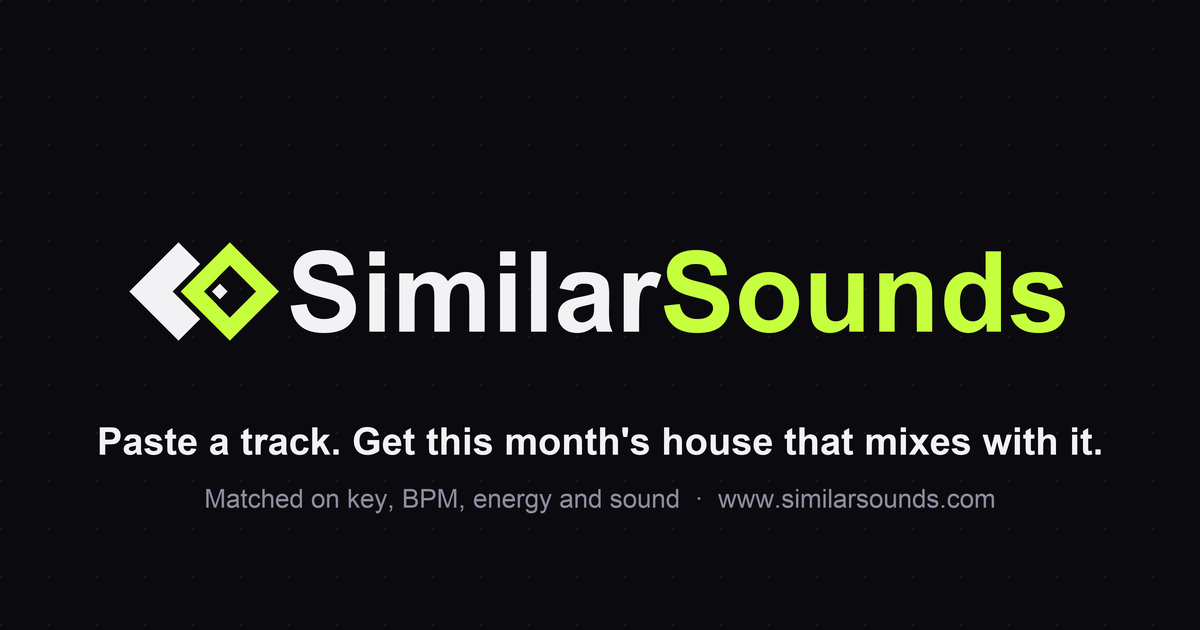
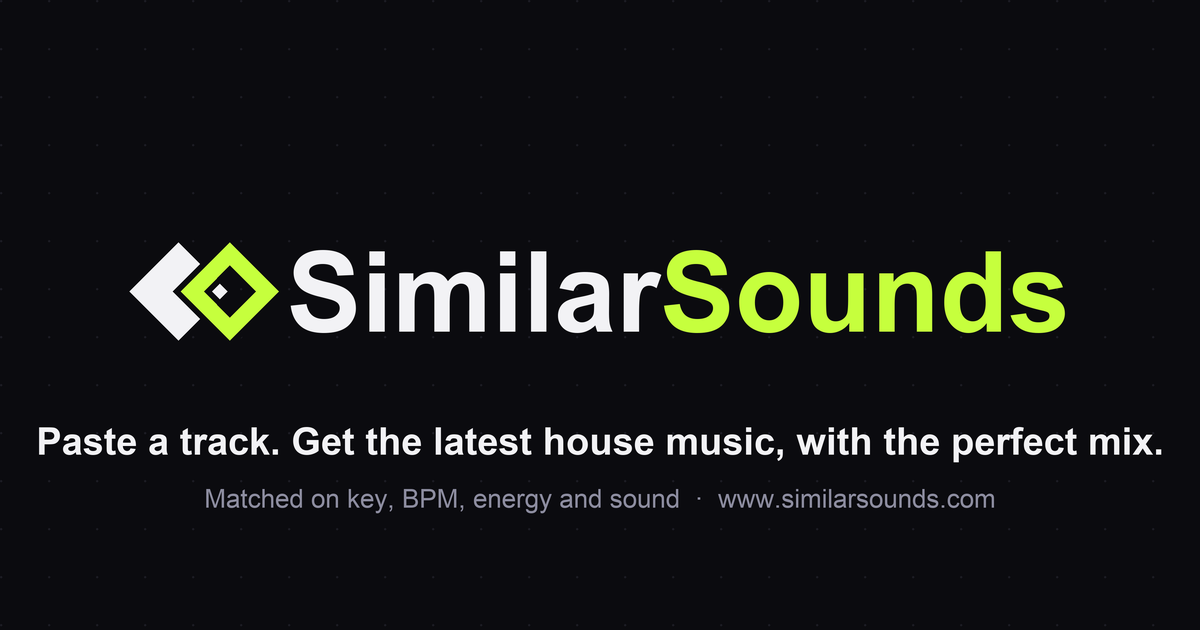
New headline: Get the latest house music, with the perfect mix.

Changed region(s): [[0.0308, 0.6635, 0.9867, 0.7238]]

diff --git a/static/i18n.js b/static/i18n.js
@@ -38,7 +38,7 @@
     "Build your set": ["Arma tu set", "Construisez votre set", "Stell dein Set zusammen", "Crea il tuo set", "Monte seu set", "Bouw je set"],
     "Line tracks up and see which ones mix smoothly.": ["Ordena los temas y mira cuáles mezclan bien.", "Alignez les titres et voyez lesquels s'enchaînent bien.", "Ordne Tracks an und sieh, welche gut ineinander übergehen.", "Metti in fila i brani e scopri quali si mixano bene.", "Organize as faixas e veja quais mixam bem.", "Zet tracks op volgorde en zie welke soepel mixen."],
     "Paste a track.": ["Pega un tema.", "Collez un titre.", "Füge einen Track ein.", "Incolla un brano.", "Cole uma faixa.", "Plak een track."],
-    "this month's": ["de este mes", "de ce mois-ci", "von diesem Monat", "di questo mese", "deste mês", "van deze maand"],
+    "the latest": ["lo último", "la toute dernière", "die neueste", "l'ultima", "o mais novo", "de nieuwste"],
     "Start typing an artist… or paste a YouTube, SoundCloud, Beatport link": ["Escribe un artista… o pega un enlace de YouTube, SoundCloud o Beatport", "Tapez un artiste… ou collez un lien YouTube, SoundCloud, Beatport", "Artist eingeben… oder YouTube-, SoundCloud-, Beatport-Link einfügen", "Scrivi un artista… o incolla un link YouTube, SoundCloud, Beatport", "Digite um artista… ou cole um link do YouTube, SoundCloud, Beatport", "Typ een artiest… of plak een YouTube-, SoundCloud-, Beatport-link"],
     "Clear search and start again": ["Borrar la búsqueda y empezar de nuevo", "Effacer la recherche et recommencer", "Suche löschen und neu starten", "Cancella la ricerca e ricomincia", "Limpar a busca e recomeçar", "Zoekopdracht wissen en opnieuw beginnen"],
     "Press / to search": ["Pulsa / para buscar", "Appuyez sur / pour rechercher", "Drücke / zum Suchen", "Premi / per cercare", "Pressione / para buscar", "Druk op / om te zoeken"],
@@ -187,7 +187,7 @@
 
   // ---------- HTML fragments with inner elements kept in place ({1}, {2}… = the original child elements)
   const H = {
-    hero2: ["Recibe house {1} que mezcla con él.", "Découvrez la house {1} qui s'enchaîne avec.", "Hol dir House {1}, der dazu passt.", "Trova house {1} che si mixa con esso.", "Receba house {1} que mixa com ela.", "Krijg house {1} die ermee mixt."],
+    hero2: ["Descubre {1} en música house, con la mezcla perfecta.", "Découvrez {1} house music, avec le mix parfait.", "Hol dir {1} House-Musik, mit dem perfekten Mix.", "Scopri {1} musica house, con il mix perfetto.", "Descubra {1} em house music, com a mixagem perfeita.", "Krijg {1} housemuziek, met de perfecte mix."],
     emptySet: ["Busca un tema, toca {1} en los que te gusten y arrástralos para ordenarlos.", "Cherchez un titre, touchez {1} sur ceux qui vous plaisent et faites-les glisser dans l'ordre.", "Such einen Track, tippe bei den gewünschten auf {1} und zieh sie in die richtige Reihenfolge.", "Cerca un brano, tocca {1} su quelli che ti piacciono e trascinali in ordine.", "Busque uma faixa, toque em {1} nas que você gostar e arraste-as para ordenar.", "Zoek een track, tik op {1} bij de tracks die je leuk vindt en sleep ze op volgorde."],
     colourKey: ["Cada par recibe un color: {1} mezcla bien, {2} es aceptable, {3} chocará.", "Chaque paire a une couleur : {1} s'enchaîne bien, {2} est jouable, {3} va clasher.", "Jedes Paar bekommt eine Farbe: {1} passt gut, {2} ist machbar, {3} kollidiert.", "Ogni coppia ha un colore: {1} si mixa bene, {2} è accettabile, {3} stonerà.", "Cada par recebe uma cor: {1} mixa bem, {2} é aceitável, {3} vai chocar.", "Elk paar krijgt een kleur: {1} mixt goed, {2} is werkbaar, {3} botst."],
     gate: ["Esto carga el reproductor de {1}, que puede usar sus propias cookies. {2} · {3}", "Ceci charge le lecteur de {1}, qui peut déposer ses propres cookies. {2} · {3}", "Hier wird der Player von {1} geladen, der eigene Cookies setzen kann. {2} · {3}", "Questo carica il player di {1}, che può impostare i propri cookie. {2} · {3}", "Isto carrega o player do {1}, que pode definir seus próprios cookies. {2} · {3}", "Dit laadt de speler van {1}, die eigen cookies kan plaatsen. {2} · {3}"],

diff --git a/static/index.html b/static/index.html
@@ -8,13 +8,13 @@
 <meta property="og:type" content="website">
 <meta property="og:site_name" content="SimilarSounds">
 <meta property="og:title" content="SimilarSounds - find new house music that mixes with any track">
-<meta property="og:description" content="Paste a track. Get this month's house that matches its key, BPM, energy and sound - then build a set that flows.">
+<meta property="og:description" content="Paste a track. Get the latest house music that matches its key, BPM, energy and sound - then build a set that flows.">
 <meta property="og:url" content="https://www.similarsounds.com/">
 <link rel="canonical" href="https://www.similarsounds.com/">
 <meta property="og:image" content="https://www.similarsounds.com/static/og.png">
 <meta property="og:image:width" content="1200">
 <meta property="og:image:height" content="630">
-<meta property="og:image:alt" content="SimilarSounds - Paste a track. Get this month's house that mixes with it.">
+<meta property="og:image:alt" content="SimilarSounds - Paste a track. Get the latest house music, with the perfect mix.">
 <meta name="twitter:card" content="summary_large_image">
 <meta name="twitter:image" content="https://www.similarsounds.com/static/og.png">
 <link rel="apple-touch-icon" href="/static/apple-touch-icon.png">
@@ -441,7 +441,7 @@
       </nav>
     </div>
   </div>
-  <h1>Paste a track.<br><span data-i18n="hero2">Get <em>this month's</em> house that mixes with it.</span></h1>
+  <h1>Paste a track.<br><span data-i18n="hero2">Get <em>the latest</em> house music, with the perfect mix.</span></h1>
   <ol class="steps" id="how">
     <li><b>1</b><span><strong>Pick a track</strong> Type an artist or paste a YouTube, SoundCloud or Beatport link.</span></li>
     <li><b>2</b><span><strong>Get matches</strong> New house that fits its key, BPM, energy and sound.</span></li>
@@ -1526,6 +1526,6 @@ renderSet();
 openFromUrl(true);
 openSharedSet();
 </script>
-<script src="/static/i18n.js?v=2"></script>
+<script src="/static/i18n.js?v=3"></script>
 </body>
 </html>

diff --git a/brand/lockup.html b/brand/lockup.html
@@ -55,7 +55,7 @@
       <span class="lockup gap-b"><svg class="mark" viewBox="16 39 89 42"><circle cx="37" cy="60" r="21" fill="#f2f2f5"/><circle cx="84" cy="60" r="17.5" fill="none" stroke="#c6ff3d" stroke-width="7"/></svg>Similar<b>Sounds</b></span>
       <span class="btn">Build your set<i>5</i></span>
     </div>
-    <h2>Paste a track.<br>Get <em>this month's</em> house that mixes with it.</h2>
+    <h2>Paste a track.<br>Get <em>the latest</em> house music, with the perfect mix.</h2>
   </div>
 
   <h1>Three spacing options. The mark is sized to the height of the capital S and sits on the same line as the text.</h1>

diff --git a/brand/make_share_images.py b/brand/make_share_images.py
@@ -64,7 +64,7 @@ def og():
     d.text((tx, base_y - cap[1]), "Similar", font=big, fill=WHITE)
     d.text((tx + sim_w, base_y - cap[1]), "Sounds", font=big, fill=GREEN)
     tag = ImageFont.truetype(BOLD, 38 * SS)
-    line = "Paste a track. Get this month's house that mixes with it."
+    line = "Paste a track. Get the latest house music, with the perfect mix."
     tw = d.textlength(line, font=tag)
     d.text(((W - tw) / 2, 420 * SS), line, font=tag, fill=WHITE)
     small = ImageFont.truetype(REG, 26 * SS)
